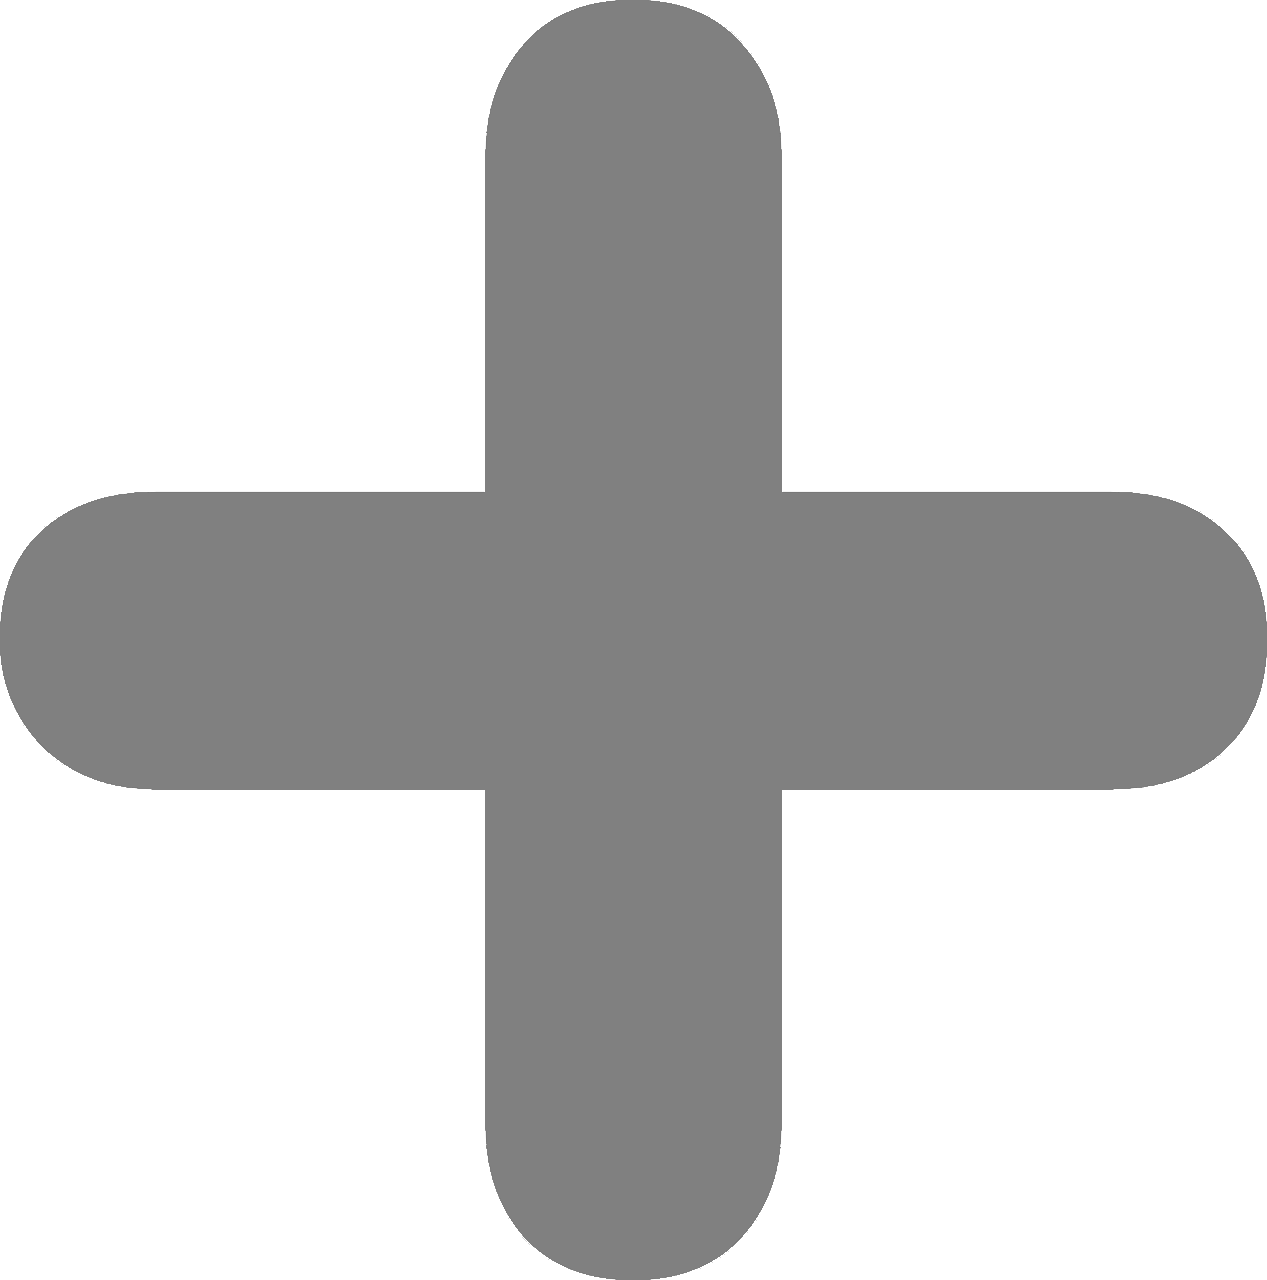
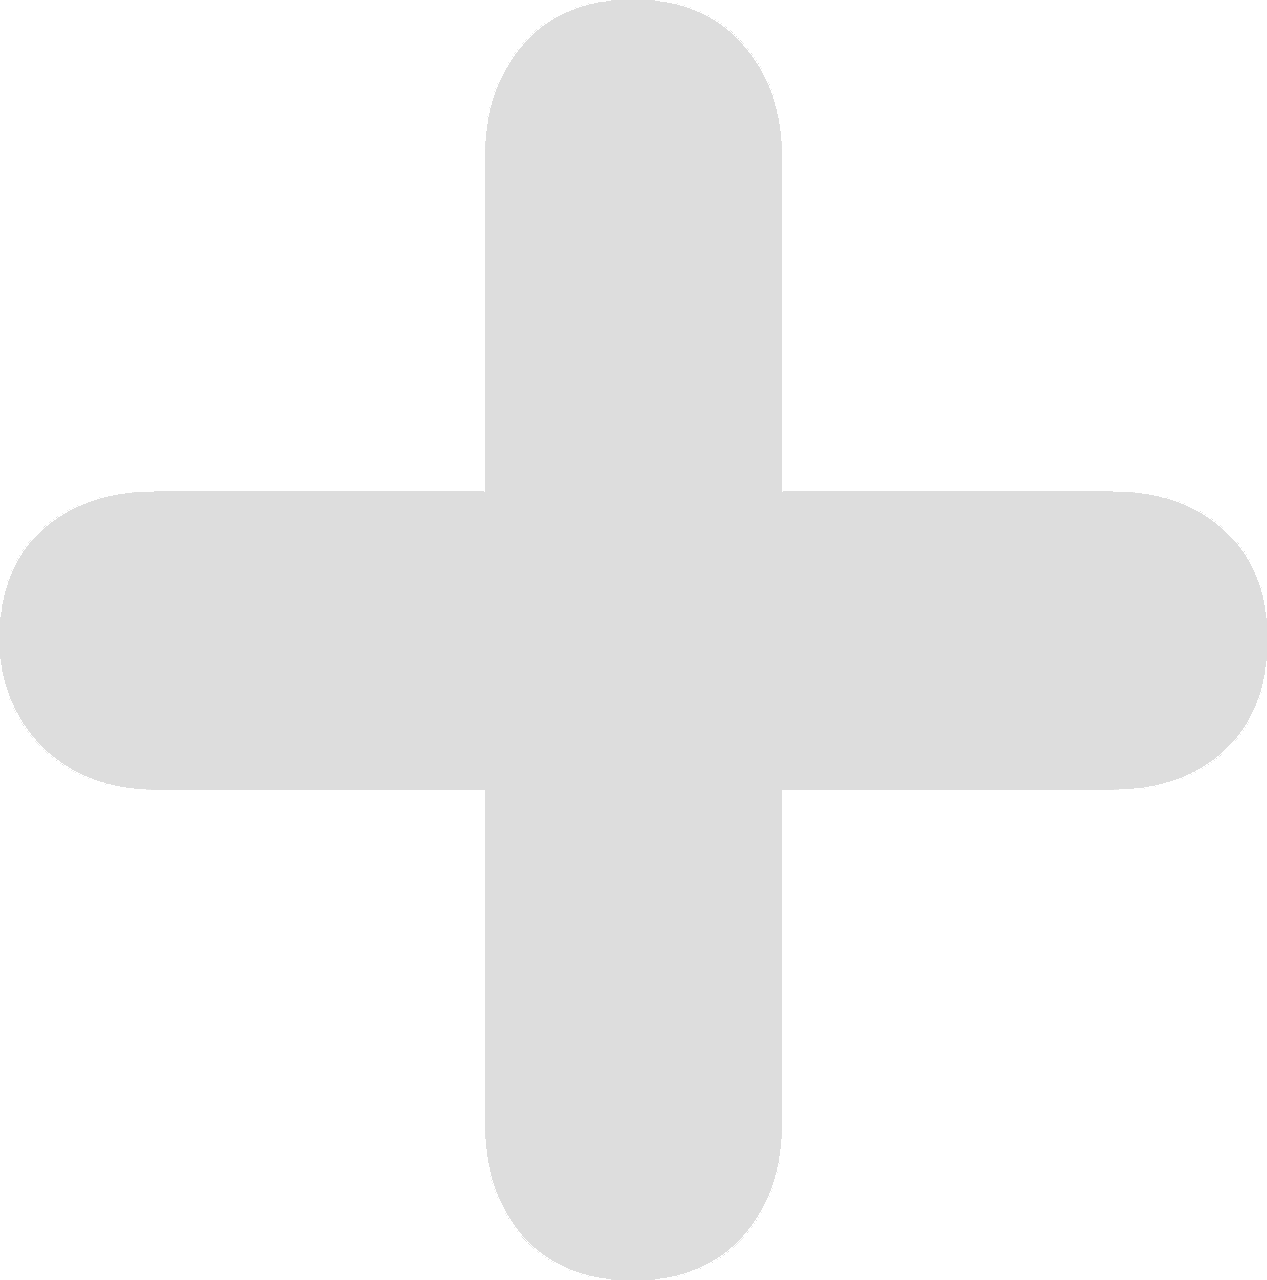
Home screen formatting

diff --git a/src/view/stylesheet.css b/src/view/stylesheet.css
@@ -1,3 +1,48 @@
+#GetStartedBox{
+ -fx-background-color: #dddddd;
+}
+
+#OutsideBox{
+ -fx-border-color: #313131;
+ -fx-border-width: 1;
+ -fx-border-radius: 0;
+ -fx-background-insets: 0;
+ -fx-background-color: #797979;
+}
+
+#OutsideBox:hover{
+ -fx-background-color: #919191;
+}
+
+#save:disabled{
+ -fx-background-color: #4a4a4a;
+}
+
+#save{
+ /*Enabled Color*/
+ -fx-background-color: #bb9964;
+ -fx-text-fill: #ececec;
+}
+
+#save:hover{
+ -fx-background-color: #cdb48d;
+}
+
+#HomeText{
+ -fx-text-fill: #ececec;
+}
+
+#HomeMainBox{
+ -fx-background-color: #2e2e2e;
+}
+
+#HomeBackground{
+ -fx-background-color: #515151;
+}
+
+#HomeSaveBox{
+ -fx-background-color: #616161;
+}
 #button:hover{
  -fx-background-color: #008CBA;
  -fx-text-fill: white;

diff --git a/src/jSONEditor/Controller/Main.java b/src/jSONEditor/Controller/Main.java
@@ -5,6 +5,8 @@ import javafx.event.EventHandler;
 import javafx.fxml.FXMLLoader;
 import javafx.scene.Parent;
 import javafx.scene.Scene;
+import javafx.scene.paint.Color;
+import javafx.scene.paint.Paint;
 import javafx.stage.Stage;
 import javafx.stage.WindowEvent;
 
